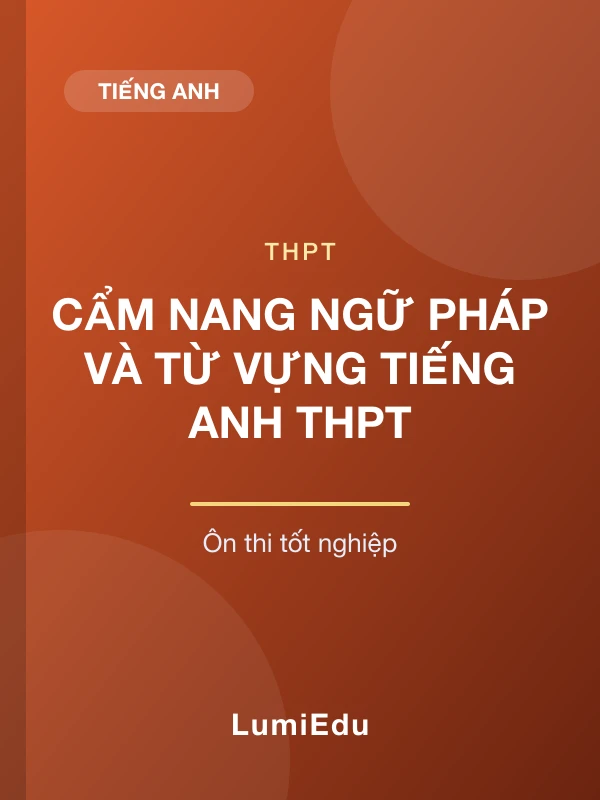
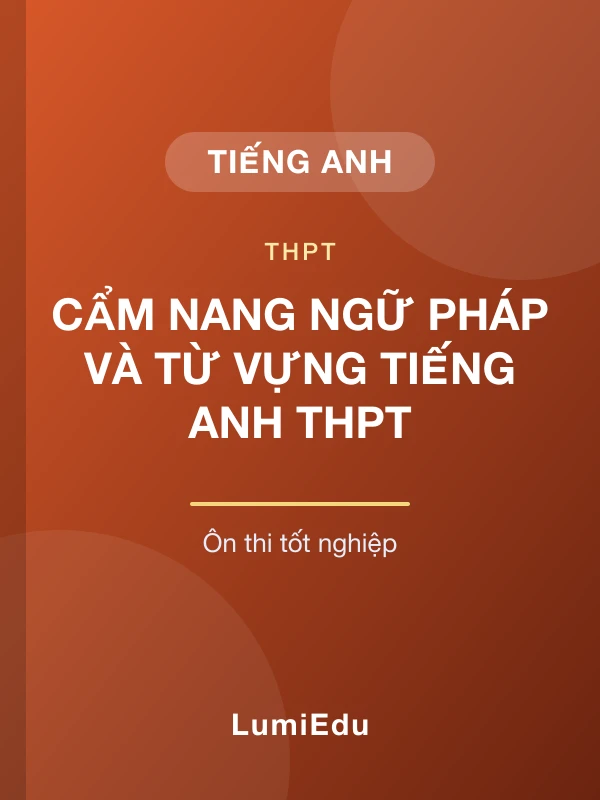
style(books): enlarge the subject label on book covers
The subject pill on generated covers was drawn at 22px on a 600px cover,
so it became unreadable on the smaller cards and sat under the Bán chạy /
Mới badge. It is now 32px, centred above the grade line. Covers and the
books page banners are redrawn from the scripts.

Changed region(s): [[0.09, 0.0625, 0.75, 0.25]]

diff --git a/backend/src/utils/sampleBooks.js b/backend/src/utils/sampleBooks.js
@@ -29,14 +29,17 @@ const esc = (s) => s.replace(/&/g, '&amp;').replace(/</g, '&lt;');
 function coverSvg(b) {
   const [c1, c2] = THEMES[b.subject] || THEMES['Toán học'];
   const lines = wrap(b.title.toUpperCase(), 17).slice(0, 5);
+  // Nhãn môn học to, nằm giữa bìa để thẻ sách thu nhỏ vẫn đọc được và không bị nhãn "Bán chạy"/giảm giá đè lên
+  const subject = b.subject.toUpperCase();
+  const pillW = subject.length * 22 + 72;
   const text = lines.map((l, i) => `<text x="300" y="${330 + i * 54}" font-size="44" font-weight="700" fill="#fff" text-anchor="middle" font-family="'Helvetica Neue', Arial, sans-serif">${esc(l)}</text>`).join('');
   return `<svg xmlns="http://www.w3.org/2000/svg" width="600" height="800" viewBox="0 0 600 800">
   <defs><linearGradient id="g" x1="0" y1="0" x2="1" y2="1"><stop offset="0" stop-color="${c1}"/><stop offset="1" stop-color="${c2}"/></linearGradient></defs>
   <rect width="600" height="800" fill="url(#g)"/>
   <circle cx="520" cy="90" r="190" fill="#fff" opacity=".08"/><circle cx="60" cy="760" r="230" fill="#fff" opacity=".07"/>
   <rect x="0" y="0" width="26" height="800" fill="#000" opacity=".18"/>
-  <rect x="64" y="70" width="190" height="42" rx="21" fill="#fff" opacity=".16"/>
-  <text x="159" y="99" font-size="22" font-weight="700" fill="#fff" text-anchor="middle" font-family="'Helvetica Neue', Arial, sans-serif">${esc(b.subject.toUpperCase())}</text>
+  <rect x="${300 - pillW / 2}" y="132" width="${pillW}" height="60" rx="30" fill="#fff" opacity=".2"/>
+  <text x="300" y="173" font-size="32" font-weight="700" fill="#fff" text-anchor="middle" font-family="'Helvetica Neue', Arial, sans-serif" letter-spacing="1">${esc(subject)}</text>
   <text x="300" y="${330 - 70}" font-size="24" font-weight="600" fill="#ffe9a8" text-anchor="middle" font-family="'Helvetica Neue', Arial, sans-serif" letter-spacing="3">${esc((b.grade || '').toUpperCase())}</text>
   ${text}
   <rect x="190" y="${340 + lines.length * 54}" width="220" height="4" rx="2" fill="#f6d77e"/>
